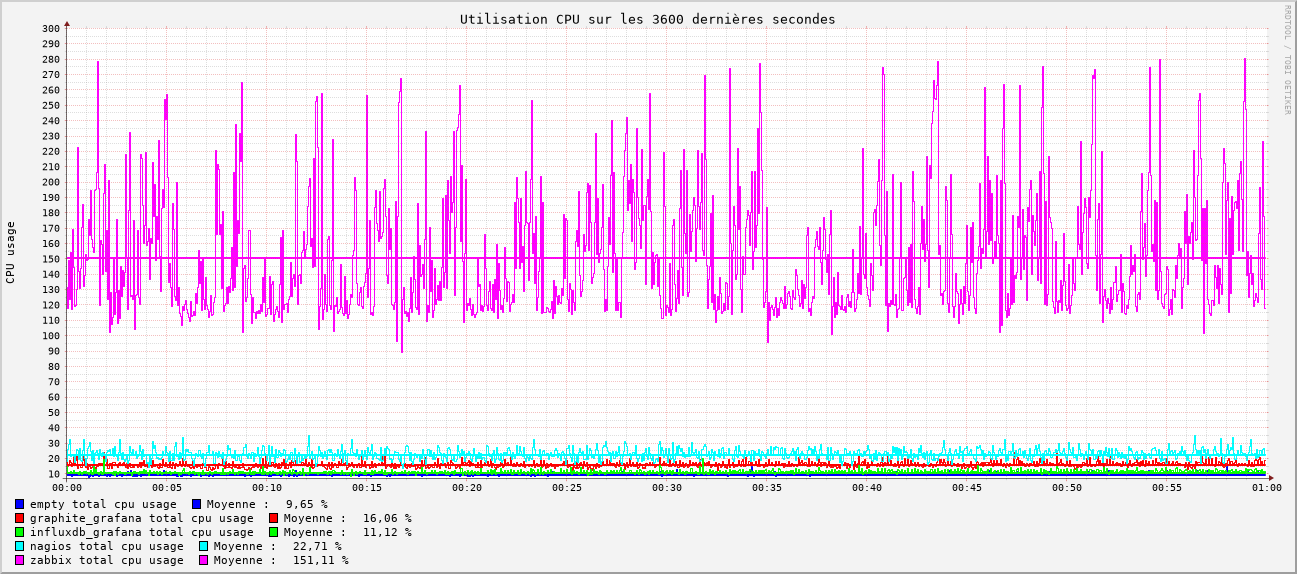
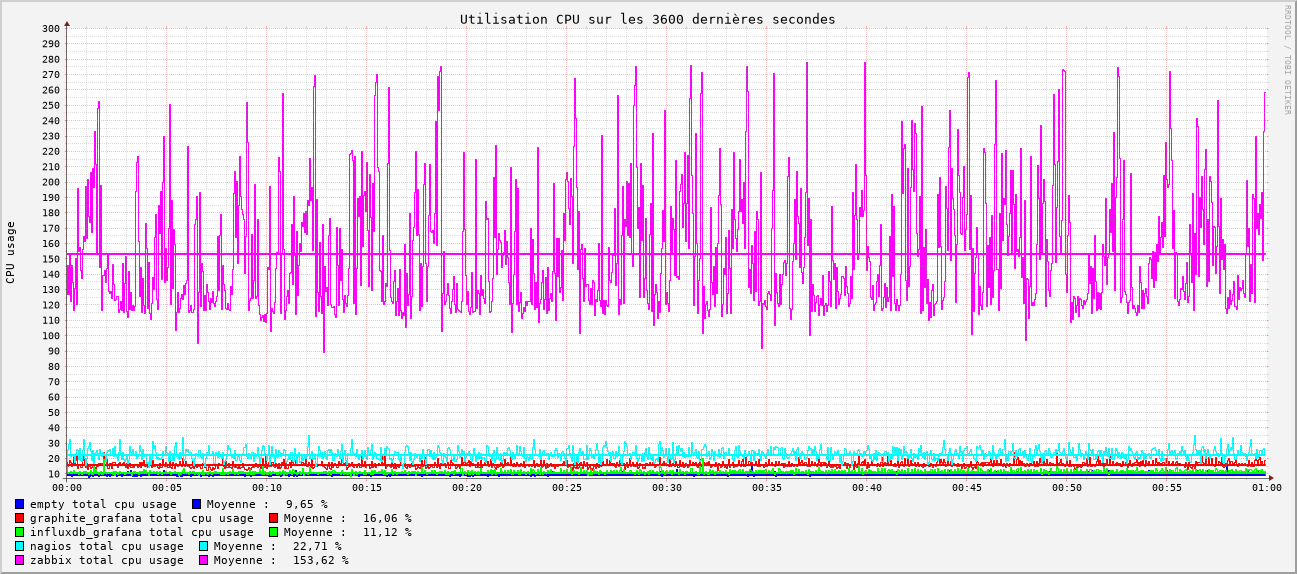
fix: Correction des graphiques de zabbix

Changed region(s): [[0.0308, 0.1185, 0.9869, 0.5923], [0.8327, 0.1185, 0.8635, 0.1481]]

diff --git a/_posts/2025-08-21-monitoring-zabbix.md b/_posts/2025-08-21-monitoring-zabbix.md
@@ -53,21 +53,25 @@ Zabbix peut être configuré, soit via l'interface web, soit par fichier de conf
 
 #### CPU
 
-[![Graphique d'utilisation CPU de Zabbix sur les 8100 dernières secondes.](../images/monitoring-dasboard-benchmark/zabbix_cpu_usage.png)](../images/monitoring-dasboard-benchmark/zabbix_cpu_usage.png)
+[![Graphique d'utilisation CPU de Zabbix sur les 3600 dernières secondes.](../images/monitoring-dasboard-benchmark/zabbix_cpu_usage.png)](../images/monitoring-dasboard-benchmark/zabbix_cpu_usage.png)
 
-Zabbix est plus gourmand en CPU que nagios. Par ailleurs on observe de très fortes variations, avec des pics à plus de 200%. La moyenne d'utilisation CPU est de **160%** là où nagios était à 24%.
+Zabbix est plus gourmand en CPU que nagios. Par ailleurs on observe de très fortes variations, avec des pics à plus de 200%. La moyenne d'utilisation CPU est de **153,62%** là où nagios était à 22,71%. Nous avons des doutes sur l'origine de cette consommation. Il est probable que cela vienne de la méthode que nous employons pour envoyer les données vers zabbix et non pas de zabbix lui mème (à confirmer).
 
 #### RAM
 
-[![Graphique d'utilisation mémoire de Zabbix sur les 8100 dernières secondes.](../images/monitoring-dasboard-benchmark/zabbix_memory_usage.png)](../images/monitoring-dasboard-benchmark/zabbix_memory_usage.png)
+[![Graphique d'utilisation mémoire de Zabbix sur les 3600 dernières secondes.](../images/monitoring-dasboard-benchmark/zabbix_memory_usage.png)](../images/monitoring-dasboard-benchmark/zabbix_memory_usage.png)
 
-Pour la RAM c'est plus proche que ce que nous avions avec nagios : **4,67%** (nagios : 3,5%) . Cependant, il reste une légère augmentation de l'utilisation de la RAM au fil du temps, ce qui pourrait causer des problèmes de performance à long terme. Nous faisons l'hypothèse que cela viendrait de la gestion des données qui serait montée en partie en RAM (à confirmer).
+Pour la RAM c'est plus proche que ce que nous avions avec nagios : **4,17%** (nagios : 2,99%) . Cependant, il reste une légère augmentation de l'utilisation de la RAM au fil du temps, ce qui pourrait causer des problèmes de performance à long terme. Nous faisons l'hypothèse que cela viendrait de la gestion des données qui serait montée en partie en RAM (à confirmer).
 
 ### Conclusion
 
-Zabbix est un outil de monitoring complet et moderne, mais il est intensif en CPU. Il nécessite une configuration supplémentaire pour intégrer Collectd, ce qui peut être une difficulté supplémentaire en ce qui concerne la maintenabilité. Ou bien il faut déployer l'[agent Zabbix](https://www.zabbix.com/download_agents) sur les serveurs à observer. Dans ce cas, il y a moins d'inter-opérabilité si on veut changer de système de supervision.
+Zabbix est un outil de monitoring complet et moderne, mais il est intensif en CPU. Il nécessite une configuration supplémentaire pour intégrer Collectd (probablement à l'origine de la forte consommation CPU), ce qui peut être une difficulté supplémentaire en ce qui concerne la maintenabilité. Ou bien il faut déployer l'[agent Zabbix](https://www.zabbix.com/download_agents) sur les serveurs à observer. Dans ce cas, il y a moins d'inter-opérabilité si on veut changer de système de supervision.
 
 Mis à part cela, Zabbix reste assez simple à configurer. Il offre une interface web moderne et une grande flexibilité dans la configuration des graphiques et des alertes. Il est compatible avec les bases de données MySQL et PostgreSQL, ce qui laisse le choix de la technologie de stockage.  Zabbix est entièrement open-source, ce qui est un bon point selon nos critères.
+
+ÉDITE (28/08/2025): 
+- nouveau tir pour clarifier les résultats CPU et RAM.
+- correction du scripte de benchmark mesure qui consommait de la mémoire.
 
 Retrouvez les autres articles de cette série (à venir dans les prochains jours) :
 

diff --git a/_drafts/monitoring-conclusion.md b/_drafts/monitoring-conclusion.md
@@ -20,8 +20,8 @@ Chaque graphique ci-dessous représente la moyenne des mesures prises toutes les
 [![Graphique comparatif de l'utilisation CPU des quatres outils.](../images/monitoring-dasboard-benchmark/nagios_graphite_zabbix_influxdb_cpu_usage.png)](../images/monitoring-dasboard-benchmark/nagios_graphite_zabbix_influxdb_cpu_usage.png)
 [![Graphique comparatif de l'utilisation CPU de nagios graphite et influxdb.](../images/monitoring-dasboard-benchmark/nagios_graphite_influxdb_cpu_usage.png)](../images/monitoring-dasboard-benchmark/nagios_graphite_influxdb_cpu_usage.png)
 
-On observe que **Zabbix** est l'outil le plus gourmand en CPU, et de loin avec une moyenne de **151%** d'utilisation. **Nagios** et **Graphite + Grafana** sont beaucoup moins gourmands avec une moyenne de **23%** d'utilisation CPU pour **Nagios**, **16%** pour **Graphite + Grafana** et **11,12** pour **Influxdb + Grafana**. Sachant que la mesure témoin donne **9,5%** d'utilisation sans outils en fonctionnement, cela nous donne une approximation à:
-  - **Zabbix** : **141,5%** d'utilisation CPU
+On observe que **Zabbix** est l'outil le plus gourmand en CPU, et de loin avec une moyenne de **153,62%** d'utilisation. **Nagios** et **Graphite + Grafana** sont beaucoup moins gourmands avec une moyenne de **23%** d'utilisation CPU pour **Nagios**, **16%** pour **Graphite + Grafana** et **11,12** pour **Influxdb + Grafana**. Sachant que la mesure témoin donne **9,5%** d'utilisation sans outils en fonctionnement, cela nous donne une approximation à:
+  - **Zabbix** : **142%** d'utilisation CPU
   - **Nagios** : **13%** d'utilisation CPU
   - **Graphite + Grafana** : **6,5%** d'utilisation CPU
   - **Influxdb + Grafana** : **1,5%** d'utilisation CPU
